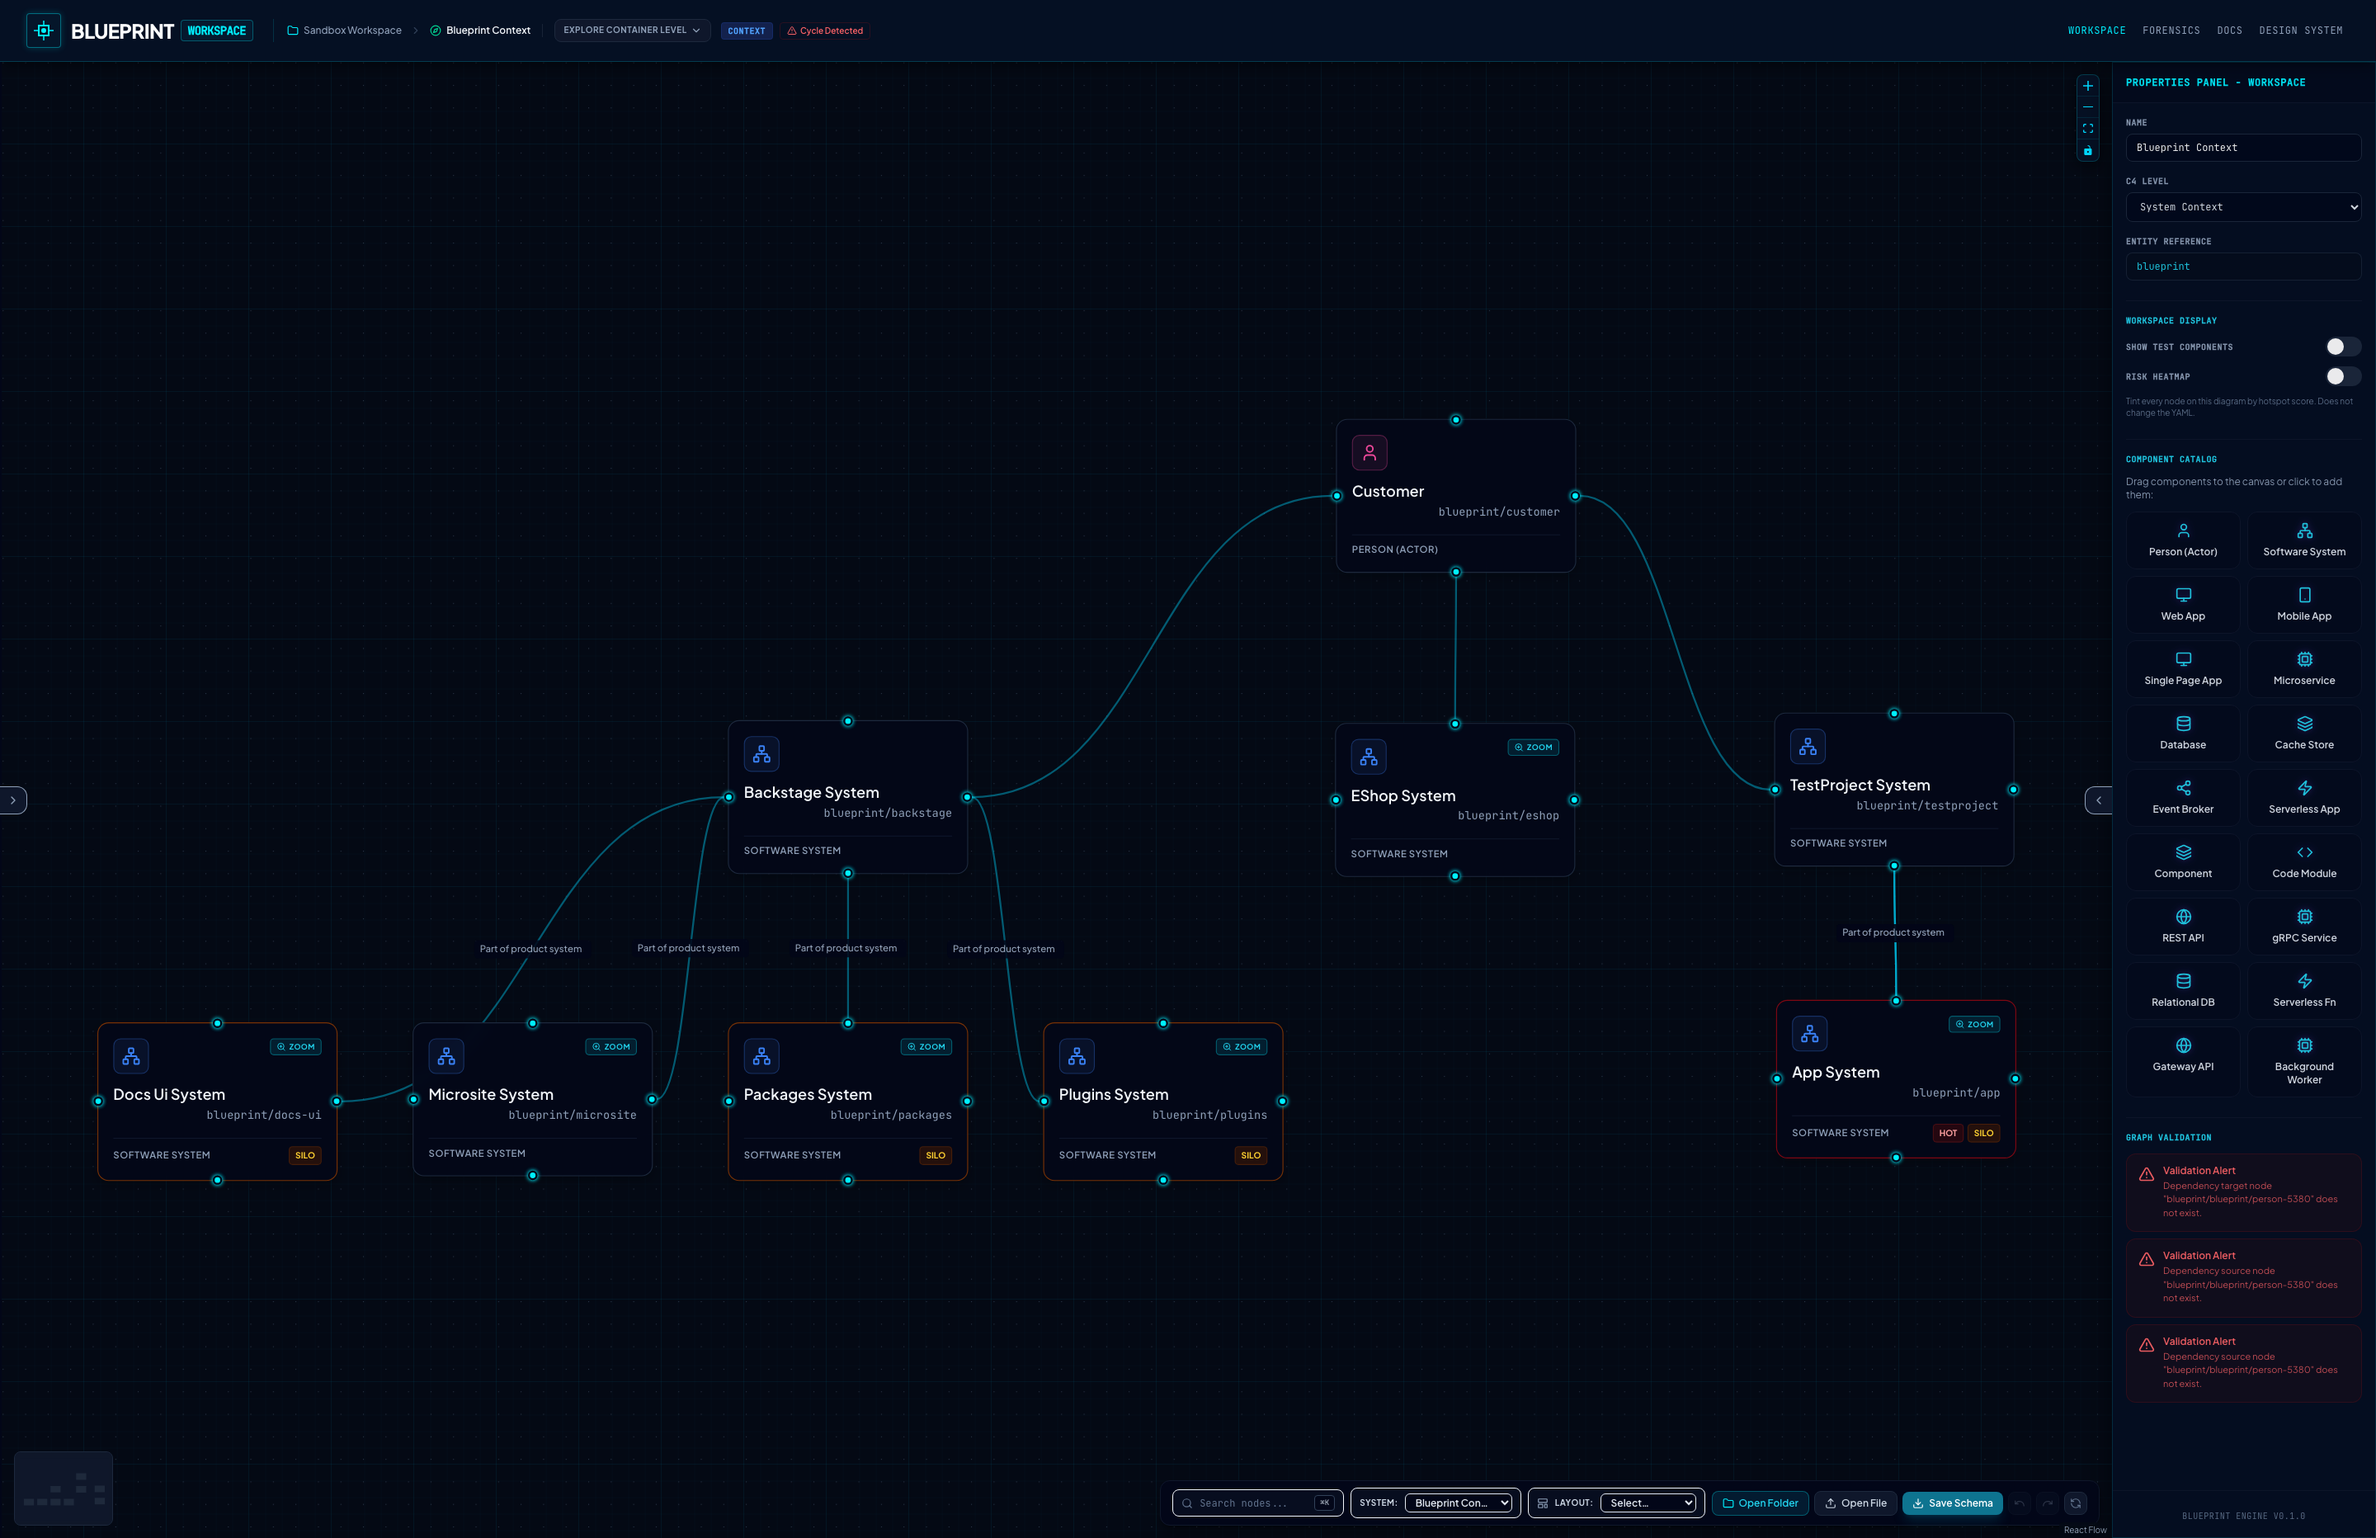
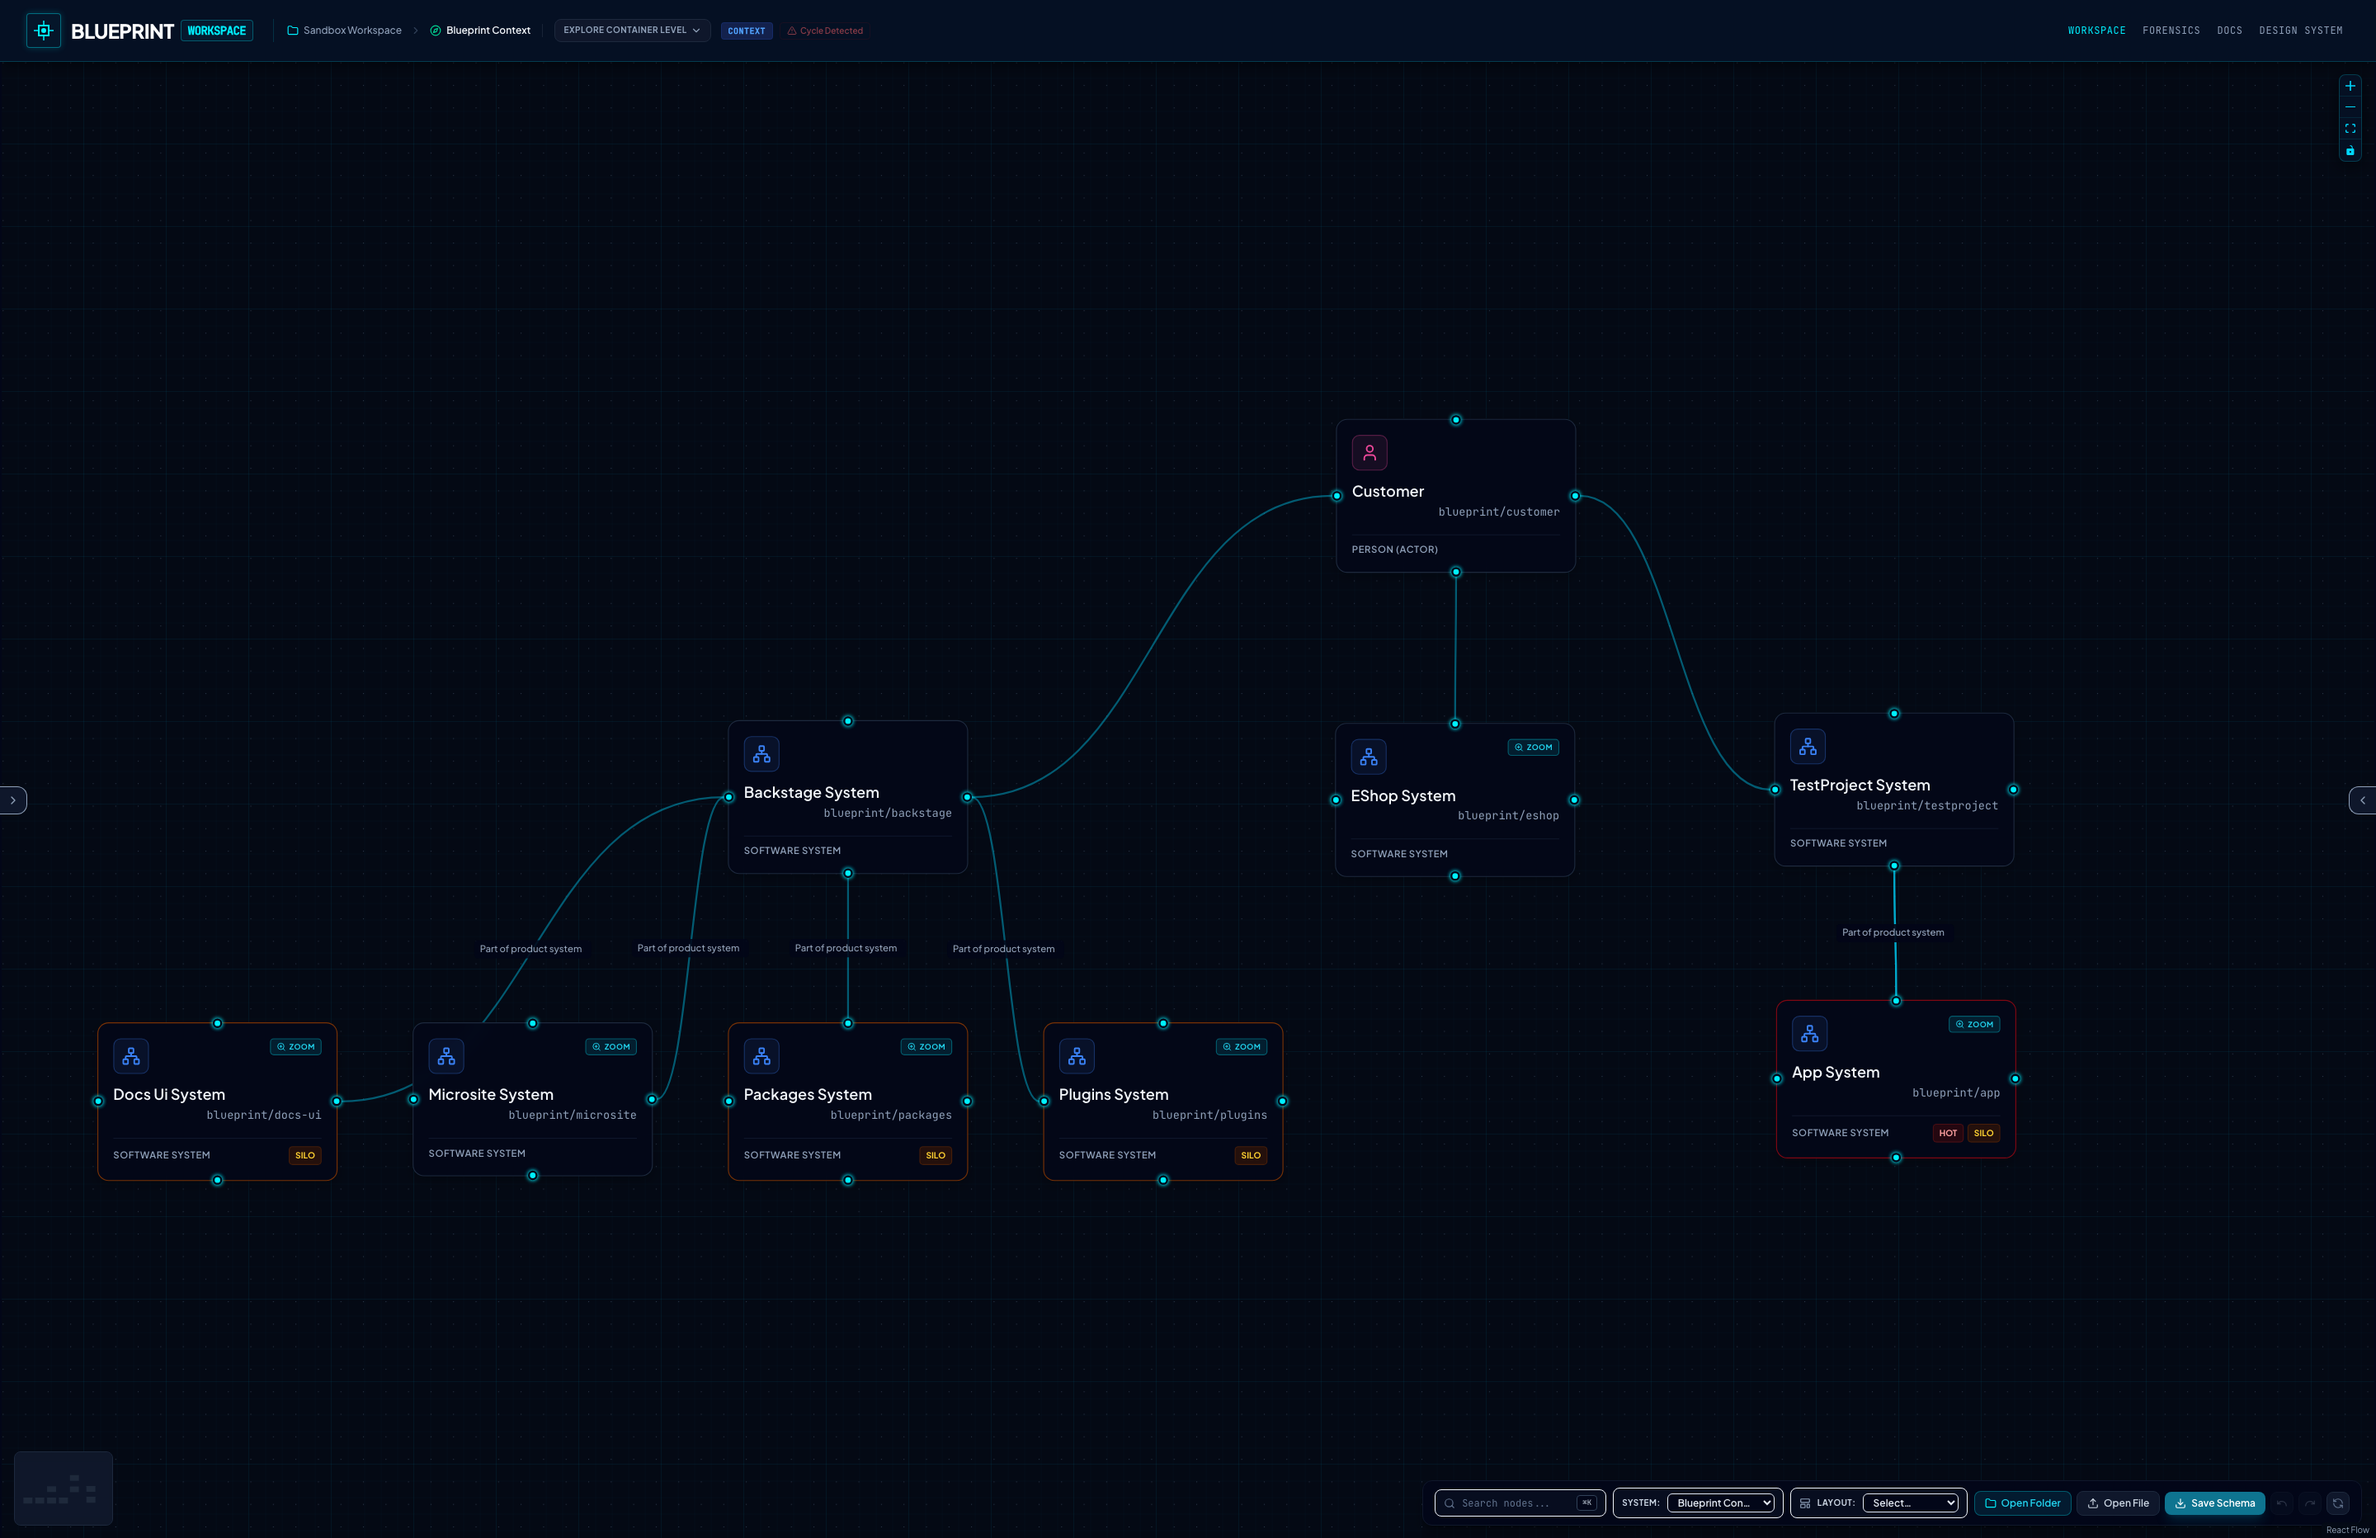
test: add delays to e2e test screenshots to ensure proper render and update documentation images

diff --git a/app/packages/designer/tests/e2e.spec.ts b/app/packages/designer/tests/e2e.spec.ts
@@ -28,6 +28,7 @@ test.describe('Blueprint E2E Journeys', () => {
     await rightPanelButton.click();
     await expect(rightPanel).toHaveClass(/w-0/);
 
+    await page.waitForTimeout(500);
     await page.screenshot({ path: '../../../docs/screenshots/1-panels-expanded.png' });
 
     await leftPanelButton.click();
@@ -36,6 +37,7 @@ test.describe('Blueprint E2E Journeys', () => {
     await rightPanelButton.click();
     await expect(rightPanel).not.toHaveClass(/w-0/);
 
+    await page.waitForTimeout(500);
     await page.screenshot({ path: '../../../docs/screenshots/2-panels-collapsed.png' });
   });
 
@@ -48,6 +50,7 @@ test.describe('Blueprint E2E Journeys', () => {
     await expect(page.locator('#workspace-slug-input')).toHaveValue('blueprint');
     expect(page.url()).toContain('/workspace/blueprint');
 
+    await page.waitForTimeout(1000);
     await page.screenshot({ path: '../../../docs/screenshots/3-container-level.png' });
 
     const appSystem = page.locator('.react-flow__node', { hasText: 'App System' }).first();
@@ -58,6 +61,7 @@ test.describe('Blueprint E2E Journeys', () => {
     await expect(page.locator('#workspace-slug-input')).toHaveValue('blueprint/app');
     expect(page.url()).toContain('/workspace/blueprint/app');
 
+    await page.waitForTimeout(1000);
     await page.screenshot({ path: '../../../docs/screenshots/4-zoomed-in-components.png' });
 
     const appService = page.locator('.react-flow__node', { hasText: 'App Service' }).first();
@@ -80,6 +84,7 @@ test.describe('Blueprint E2E Journeys', () => {
     await expect(page.locator('#workspace-slug-input')).toHaveValue('blueprint');
     expect(page.url()).toContain('/workspace/blueprint');
 
+    await page.waitForTimeout(1000);
     await page.screenshot({ path: '../../../docs/screenshots/5-zoomed-back-out.png' });
   });
 });
